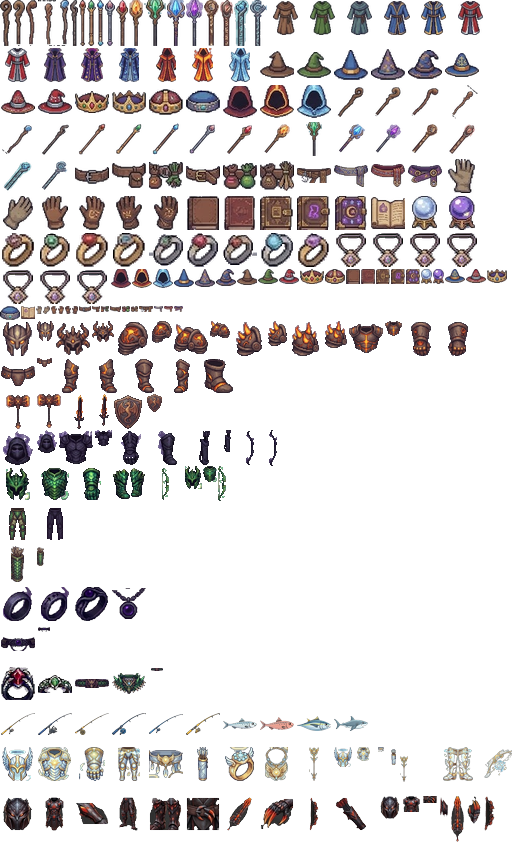
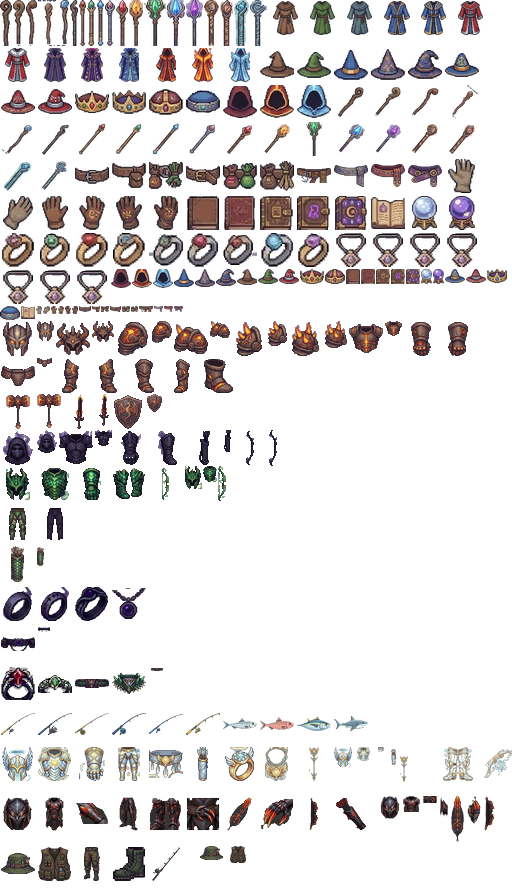
Add files via upload

diff --git a/eldoria/game/fishing.js b/eldoria/game/fishing.js
@@ -39,14 +39,25 @@ const RODS = {
   cana_hielo:  { name: 'Caña de Hielo',         spr: 'r_hielo',    req: 40,  wait: 0.78, bar: 0.06, price: 3800 },      // azul
   cana_acero:  { name: 'Caña de Surf Casting',  spr: 'r_surf',     req: 60,  wait: 0.70, bar: 0.08, price: 7000 },      // azul
   cana_jade:   { name: 'Caña de Mar Profundo',  spr: 'r_profundo', req: 120, wait: 0.55, bar: 0.12, price: 24000 },     // amarilla premium
+  cana_maestra:{ name: 'Caña del Maestro Pescador', spr: 'r_maestro', req: 100, wait: 0.45, bar: 0.15, price: 60000, rare: 1 },  // solo se consigue pescando (no se vende)
 };
+// Set del Maestro Pescador: botín raro al pescar (0,5 % por captura y pieza). Con las 4 piezas puestas, cada captura puede traer 5 presas.
+const SET_DROP = 0.005, SET5 = 0.25, SET_PIECES = ['head', 'body', 'legs', 'boots'];
+const SET = [
+  ['pesca_sombrero', 'Sombrero del Maestro Pescador',  'g_helm',  'head',  40, 30, { hp: 180, atk: 2 }],
+  ['pesca_chaleco',  'Chaleco del Maestro Pescador',   'g_chest', 'body',  44, 46, { hp: 300, atk: 4 }],
+  ['pesca_pantalon', 'Pantalón del Maestro Pescador',  'g_leg',   'legs',  43, 24, { hp: 170, atk: 3 }],
+  ['pesca_botas',    'Botas del Maestro Pescador',     'g_boot',  'boots', 41, 18, { hp: 110, atk: 2 }],
+];
+const SET_ICON = { head: '🎩', body: '🦺', legs: '👖', boots: '🥾' };
 const BAITS = { cebo: { rare: 1.6, wait: 0.7 }, cebo_dorado: { rare: 2.6, wait: 0.5 } };
 const SLACK = 0.06, BITE_MS = 2600;
 
 function build(ITEMS_, SHOPS) {
   for (const f of ['sardina', 'salmon', 'tiburon']) if (ITEMS_[f]) ITEMS_[f].spr = 'f_' + f;
   ITEMS_.atun = { spr: 'f_atun', name: 'Atún', icon: '🐠', type: 'consumable', food: 1, heal: 120, stack: true, price: 60, sell: 16 };
-  for (const [id, r] of Object.entries(RODS)) ITEMS_[id] = { name: `${r.name} (pesca ${r.req})`, icon: '🎣', spr: r.spr, type: 'misc', rod: 1, price: r.price, sell: Math.round(r.price / 4) };
+  for (const [id, r] of Object.entries(RODS)) ITEMS_[id] = { name: `${r.name} (pesca ${r.req})`, icon: '🎣', spr: r.spr, type: 'misc', rod: 1, price: r.rare ? undefined : r.price, sell: Math.round(r.price / 4) };
+  for (const [id, name, spr, type, L, def, bonus] of SET) ITEMS_[id] = { name, icon: SET_ICON[type], spr, type, def, bonus, angler: 1, minLevel: L, sell: Math.round(8 + L * L * 3.4) * 5 };
   ITEMS_.cebo = { name: 'Cebo de Gusanos', icon: '🪱', type: 'misc', stack: true, bait: 1, price: 12, sell: 3 };
   ITEMS_.cebo_dorado = { name: 'Cebo Dorado', icon: '✨', type: 'misc', stack: true, bait: 1, price: 90, sell: 25 };
   ITEMS_.perla_marina = { name: 'Perla Marina', icon: '🦪', type: 'misc', stack: true, sell: 2500 };
@@ -142,6 +153,8 @@ module.exports = { build, install(Game) {
     // captura
     const e = p.ext.fish, id = f.fish, F = FISH[id], before = lvOf(p), r = RODS[f.rod];
     let qty = 1; if (r.req >= 60 && Math.random() < 0.12) qty = 2;
+    const full = SET_PIECES.every((s) => p.eq[s] && ITEMS[p.eq[s].id] && ITEMS[p.eq[s].id].angler);
+    if (full && Math.random() < SET5) { qty = 5; this.msgC(p, '🎣 ¡Set del Maestro Pescador completo: pescas 5 presas de golpe!', '#ffd96a'); }
     this.giveOrDrop(p, id, qty);
     e.c[id] = (e.c[id] || 0) + qty; e.xp += F.xp * qty;
     this.fx.push({ k: 'd', x: f.x, y: f.y, v: '+' + qty + ' ' + ITEMS[id].name, c: 'g' });
@@ -151,6 +164,7 @@ module.exports = { build, install(Game) {
       const treasure = Math.random() < 0.7 ? 'perla_marina' : 'tesoro_hundido';
       this.giveOrDrop(p, treasure, 1); e.c[treasure] = (e.c[treasure] || 0) + 1; this.msgC(p, `✨ ¡Encuentras ${ITEMS[treasure].name}!`, '#ffe08a');
     }
+    for (const [sid] of SET.concat([['cana_maestra']])) if (Math.random() < SET_DROP) { this.giveOrDrop(p, sid, 1); this.msgC(p, `🌟 ¡Pieza rara del Maestro Pescador: ${ITEMS[sid].name}!`, '#ffd96a'); this.fx.push({ k: 'd', x: f.x, y: f.y, v: '★', c: 'g' }); }
     p.fishing = null; this.anglers.delete(p); p.dirty.inv = true;
     const after = lvOf(p); if (after > before) this.msgC(p, `🎣 ¡Tu nivel de pesca sube a ${after}!`, '#7fd0ff');
     this.send(p, { t: 'fend', ok: 1, fish: id, qty });

diff --git a/eldoria/public/game.js b/eldoria/public/game.js
@@ -1214,7 +1214,7 @@
   function drawHead(c, id, hx, hy, view, side, now) {
     const d = G.items[id];
     if (d && d.spr && GJ['c_' + d.spr]) {
-      const hood = /^hat1[234]$/.test(d.spr), boss = /^(t_helm|s_hood|j_helm|a_helm|f_helm)$/.test(d.spr), dy = hood ? 7.5 : d.spr === 't_helm' ? 9.5 : d.spr === 'a_helm' || d.spr === 'f_helm' ? 8.5 : boss ? 5.5 : 0.5;   // capuchas y cascos de jefe: cubren el rostro
+      const hood = /^hat1[234]$/.test(d.spr), boss = /^(t_helm|s_hood|j_helm|a_helm|f_helm)$/.test(d.spr), dy = hood ? 7.5 : d.spr === 't_helm' ? 9.5 : d.spr === 'a_helm' || d.spr === 'f_helm' ? 8.5 : d.spr === 'g_helm' ? 3.5 : boss ? 5.5 : 0.5;   // capuchas y cascos de jefe: cubren el rostro
       if ((hood || boss) && view === 'b') { drawLayer(c, d.spr, hx, hy + dy, 0.5, 1, false, 0); return; }
       if ((hood || boss) && view !== 'f') {                                       // de perfil: se estrecha y se voltea hacia donde mira el personaje
         const f = GJ['c_' + d.spr]; c.save(); c.translate(hx + side * 1.4, hy + dy); if (side < 0) c.scale(-1, 1); c.scale(0.84, 1);
@@ -1471,9 +1471,9 @@
     robe9: ['#2f5a9a', '#1c3868', '#d8ecff', 1], robe10: ['#8a2a10', '#4a1208', '#ff8a2a', 2], robe11: ['#e06a10', '#8a2a08', '#ffd040', 2], robe12: ['#6ab0e0', '#3a78b0', '#f0fcff', 2],
   };
   const GLOVE_COL = { glove0: '#b8a88a', glove1: '#b8a88a', glove2: '#8a5a30', glove3: '#7a4a28', glove4: '#6a3e20', glove5: '#6a3e20', t_glove1: '#7a5a48', t_glove2: '#7a5a48', s_gauntlet: '#2f2a3c', j_glove: '#2f7a4a', a_glove: '#e9f1fa', f_glove: '#2f2a30' };
-  const BOOT_COL = { t_boot: ['#5d4637', '#ff8a1f'], s_boot: ['#2c2838', '#9a6ad8'], j_boot: ['#24603a', '#9ee85a'], a_boot: ['#e9f1fa', '#ffd96a'], f_boot: ['#26242a', '#ff6a1f'] };
-  const LEG_COL = { j_leg: ['#2f8a4a', '#1f5c33', '#9ee85a'], s_leg: ['#2c2838', '#1c1928', '#9a6ad8'], a_leg: ['#e9f1fa', '#a9c0e0', '#ffd96a'], f_leg: ['#2c2a30', '#18161a', '#ff6a1f'] };
-  const CHEST_SPR = new Set(['t_chest', 's_chest', 'j_chest', 'a_chest', 'f_chest']);
+  const BOOT_COL = { t_boot: ['#5d4637', '#ff8a1f'], s_boot: ['#2c2838', '#9a6ad8'], j_boot: ['#24603a', '#9ee85a'], a_boot: ['#e9f1fa', '#ffd96a'], f_boot: ['#26242a', '#ff6a1f'], g_boot: ['#3e4a30', '#8a7a50'] };
+  const LEG_COL = { j_leg: ['#2f8a4a', '#1f5c33', '#9ee85a'], s_leg: ['#2c2838', '#1c1928', '#9a6ad8'], a_leg: ['#e9f1fa', '#a9c0e0', '#ffd96a'], f_leg: ['#2c2a30', '#18161a', '#ff6a1f'], g_leg: ['#6b5a34', '#4a3d22', '#3f5a30'] };
+  const CHEST_SPR = new Set(['t_chest', 's_chest', 'j_chest', 'a_chest', 'f_chest', 'g_chest']);
 
   /* ---------- sprites de píxel-art (monstruos y PNJ) ---------- */
   const SPR = {};

diff --git a/eldoria/test/logic2.js b/eldoria/test/logic2.js
@@ -407,6 +407,29 @@ ok('pesca: caña, picada, minijuego de temporización, nivel y peces por zona', 
   const back = game.extSave(a.p); assert.equal(back.fish.xp, 1e6);
 });
 
+ok('pesca: set del Maestro Pescador (drop 0,5 %, 5 presas con el set completo)', () => {
+  for (const id of ['pesca_sombrero', 'pesca_chaleco', 'pesca_pantalon', 'pesca_botas', 'cana_maestra']) assert.ok(ITEMS[id], id);
+  assert.deepEqual(['pesca_sombrero', 'pesca_chaleco', 'pesca_pantalon', 'pesca_botas'].map((i) => ITEMS[i].type), ['head', 'body', 'legs', 'boots']);
+  let wx = -1, wy = -1, lx = -1, ly = -1;
+  outer: for (let y = 2; y < world.H - 2; y++) for (let x = 2; x < 100; x++) {
+    if (world.tiles[y * world.W + x] === world.T.WATER && world.zoneAt(x, y).id === 'prado' && world.tiles[y * world.W + x - 1] === world.T.GRASS) { wx = x; wy = y; lx = x - 1; ly = y; break outer; }
+  }
+  const a = login('Pez2'); place(a.p, lx, ly); a.p.inv[0] = I.mk('cana_madera', 1);
+  const r0 = Math.random;
+  const cast = () => { T0 += 20000; game.now = T0; game.fishCast(a.p, wx, wy); T0 += 20000; game.now = T0; game.fishTick(T0); const f = a.p.fishing; const mid = (f.lo + f.hi) / 2; let tt = f.t0; for (let q = 0; q < 4000; q++) { const ph = ((tt - f.t0) / 1000 * f.speed) % 2, pos = ph < 1 ? ph : 2 - ph; if (Math.abs(pos - mid) < 0.01) break; tt += 1; } game.now = tt; game.fishReel(a.p); };
+  const count = () => a.p.inv.reduce((n, it) => n + (it && (it.id === 'sardina' || it.id === 'salmon') ? it.qty : 0), 0);
+  try {
+    Math.random = () => 0.001;                                        // todo sale: pieza rara en cada captura
+    cast(); assert.ok(a.p.inv.some((it) => it && it.id === 'pesca_sombrero') && a.p.inv.some((it) => it && it.id === 'cana_maestra'), 'cae el set');
+    Math.random = () => 0.5;                                          // sin drop y sin set: 1 presa
+    const n0 = count(); cast(); assert.equal(count() - n0, 1);
+    for (const [s, id] of [['head', 'pesca_sombrero'], ['body', 'pesca_chaleco'], ['legs', 'pesca_pantalon'], ['boots', 'pesca_botas']]) a.p.eq[s] = I.mk(id, 1);
+    Math.random = () => 0.2;                                          // < 25 %: 5 presas
+    const n1 = count(); cast(); assert.equal(count() - n1, 5);
+    Math.random = () => 0.6; const n2 = count(); cast(); assert.equal(count() - n2, 1, 'sin suerte: 1 presa');
+  } finally { Math.random = r0; }
+});
+
 ok('Arcángel: cueva de nubes, set celestial raro y sus tres ataques', () => {
   assert.equal(MONSTERS.arcangel.special, 'angel');
   const loot = MONSTERS.arcangel.loot.map((l) => l[0]);

diff --git a/eldoria/public/ui2.js b/eldoria/public/ui2.js
@@ -377,14 +377,25 @@
   });
 
   // sedal y corcho en el mundo
+  const rodIc = {};
   X.on('draw', (c, now) => {
     if (!fs.st || !G.me) return;
     const me = G.ents.get(G.id); if (!me) return; const TS = X.TS;
     const tx = X.sxOf(fs.x) + TS / 2, ty = X.syOf(fs.y) + TS / 2, px = X.sxOf(me.rx) + TS / 2 + 6, py = X.syOf(me.ry) + TS / 2 - 10;
     const k = Math.min(1, (performance.now() - fs.ct) / 380), bite = fs.st === 'bite';
-    const bx = px + (tx - px) * k, by = py + (ty - py) * k - Math.sin(k * Math.PI) * 26;
+    // caña en la mano: la mejor que tengas (el icono girado, mango en la mano y punta hacia el agua); el sedal sale de la punta
+    let px0 = px, py0 = py, rid = '', rq = -1;
+    for (const it of G.inv || []) { const d = it && G.items[it[0]]; const r = d && d.rod && fsd.defs && fsd.defs.rods[it[0]]; if (r && r.req <= fsd.lv && r.req > rq) { rq = r.req; rid = it[0]; } }
+    if (rid && X.iconNode) {
+      const ic = (rodIc[rid] && rodIc[rid].width ? rodIc[rid] : (rodIc[rid] = X.iconNode(rid))), dir = tx < px - 1 ? -1 : 1, sz = 30, sway = bite ? Math.sin(now / 45) * 1.6 : Math.sin(now / 700) * 0.6;
+      const hx = px - dir * 5, hy = py + 11;
+      if (ic && ic.tagName === 'CANVAS' && ic.width) { c.save(); c.translate(hx, hy); c.scale(dir, 1); c.imageSmoothingEnabled = false; c.drawImage(ic, 0, -sz + 2, sz, sz); c.restore(); }
+      px0 = hx + dir * (sz - 3); py0 = hy - sz + 5 + sway;
+    }
+    const px1 = px0, py1 = py0;
+    const bx = px1 + (tx - px1) * k, by = py1 + (ty - py1) * k - Math.sin(k * Math.PI) * 26;
     c.save();
-    c.strokeStyle = 'rgba(235,235,225,.85)'; c.lineWidth = 1; c.beginPath(); c.moveTo(px, py); c.quadraticCurveTo((px + bx) / 2, Math.min(py, by) + 10 * (1 - k * 0.7), bx, by); c.stroke();
+    c.strokeStyle = 'rgba(235,235,225,.85)'; c.lineWidth = 1; c.beginPath(); c.moveTo(px1, py1); c.quadraticCurveTo((px1 + bx) / 2, Math.min(py1, by) + 10 * (1 - k * 0.7), bx, by); c.stroke();
     if (k >= 1) {
       for (let i = 0; i < 2; i++) { const ph = ((now / (bite ? 350 : 1100)) + i * 0.5) % 1; c.strokeStyle = `rgba(220,240,255,${(1 - ph) * (bite ? 0.9 : 0.5)})`; c.lineWidth = 1.5; c.beginPath(); c.ellipse(tx, ty + 4, 4 + ph * (bite ? 14 : 10), 2 + ph * (bite ? 6 : 4), 0, 0, 7); c.stroke(); }
       const dip = bite ? 3 + Math.sin(now / 55) * 2.2 : Math.sin(now / 600) * 1;

diff --git a/eldoria/README.md b/eldoria/README.md
@@ -214,3 +214,8 @@ Boris vende 11 tabletas (100 000 de oro cada una, de un solo uso): Ciudad, Bosqu
 - Ábrelo con el botón 🗺, la tecla **N** o haciendo clic en el minimapa.
 - Acerca/aleja con la rueda del ratón o los botones **+ / −**, arrastra para moverte; "Centrar en mí" y "Ver todo".
 - Muestra el nombre de cada zona (con etiqueta ⚔ PvP si aplica), ciudades y cuevas.
+
+## Set del Maestro Pescador (botín raro de pesca)
+- Sombrero, Chaleco, Pantalón y Botas del Maestro Pescador + Caña del Maestro Pescador (pesca 100): cada captura tiene un **0,5 %** de dar cada pieza.
+- Con las 4 piezas de armadura puestas, cada captura tiene un 25 % de traer **5 presas** de golpe.
+- Al pescar, el personaje sostiene en la mano la mejor caña que tenga (incluida la del Maestro Pescador) y el sedal sale de su punta.
